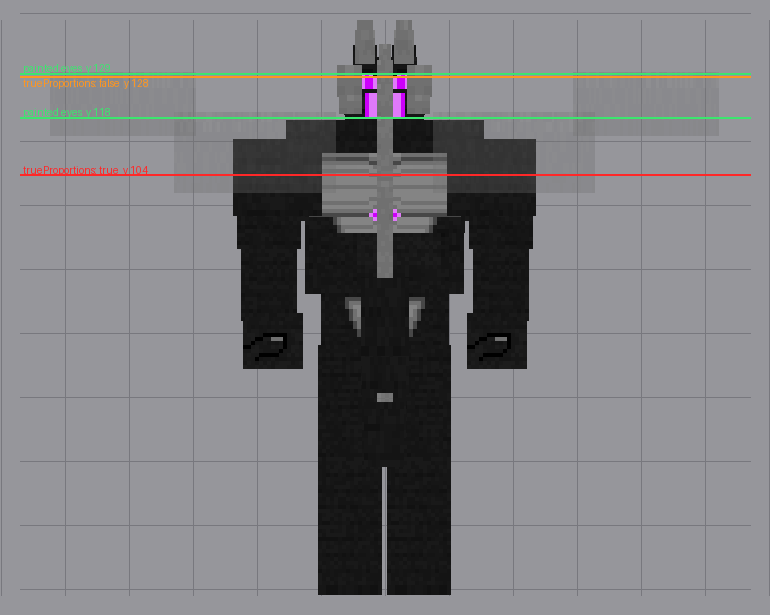
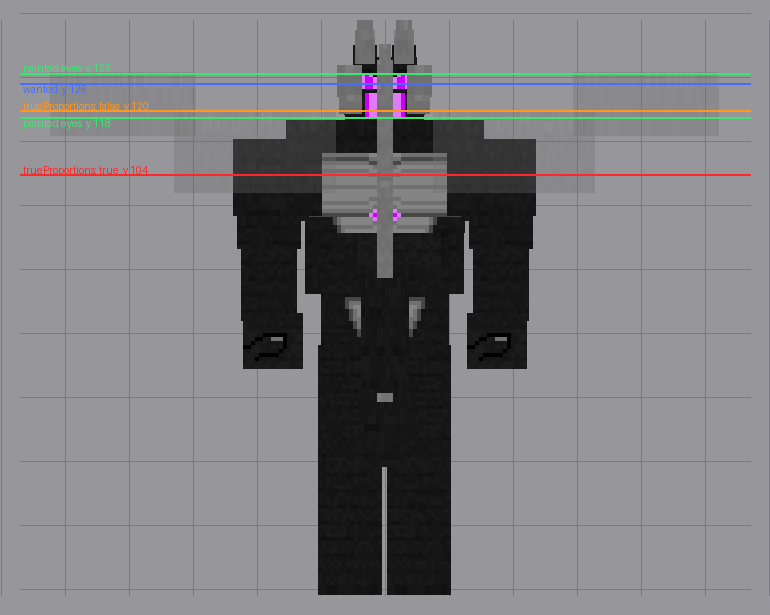
Fix the preview's eye line, and make eye height configurable
preview_eyeline measured the rig itself for SKULL_HEIGHT and took the overall
top - the horn tips at 142 - where the game builds RENDER_SCALE on the skull at
133. That put the line eight units high: it drew the plane across the top of
the eyes when it actually falls at their bottom edge, rig y 119.7. It reads the
constant out of the generated model now instead of deriving its own.

eyeHeightRatio joins the config. Vanilla is 1.62/1.8 = 0.9 baked into
Player.STANDING_DIMENSIONS, and EntityDimensions.scale() multiplies height and
eyeHeight by the same factor, so the ratio survives any scaling and no amount of
moving the head in Blockbench shifts the camera. The mixin expresses the new eye
against the dimensions' own height rather than an absolute, so it lands right
whether it fires before or after the scale is applied, and re-applying is a
no-op.

preview_eyeline takes a rig height now and prints the ratio that puts the plane
there, for both proportion settings.

Claude-Session: https://claude.ai/code/session_01SciLMdhV6QqrC51niQAHH7

Changed region(s): [[0.0312, 0.1236, 0.9662, 0.2163]]

diff --git a/tools/preview_eyeline.py b/tools/preview_eyeline.py
@@ -29,6 +29,7 @@ HERE = os.path.dirname(os.path.dirname(os.path.abspath(__file__)))
 BBMODEL = os.path.join(HERE, "art/dragon_form.bbmodel")
 TEX_DIR = os.path.join(HERE, "src/main/resources/assets/enderdragonanthro/textures/entity")
 OUT = os.path.join(HERE, "art/eyeline_preview.png")
+JAVA = os.path.join(HERE, "src/main/java/com/enderdragonanthro/client/model/DragonFormModel.java")
 
 PLAYER_HEIGHT = 1.8          # blocks
 PLAYER_EYE = 1.62            # blocks — Player.STANDING_DIMENSIONS
@@ -92,7 +93,21 @@ def eye_span(cubes):
     return best
 
 
+def skull_height():
+    """Read the constant the game actually uses, not a number of our own.
+
+    Taking the rig's overall top instead put this preview eight units out —
+    the horns reach 142 where the skull tops out at 133, and RENDER_SCALE is
+    built on the skull.
+    """
+    for line in open(JAVA):
+        if "SKULL_HEIGHT =" in line:
+            return float(line.split("=")[1].strip().rstrip("F;"))
+    raise SystemExit("could not read SKULL_HEIGHT from the generated model")
+
+
 def main():
+    want = float(sys.argv[1]) if len(sys.argv) > 1 else None
     cubes = placed(BBMODEL)
     sheet = Image.open(os.path.join(TEX_DIR, "dragon_form.png")).convert("RGBA")
 
@@ -136,14 +151,15 @@ def main():
         img.alpha_composite(face, (int(tl[0]), int(tl[1])))
 
     eyes = eye_span(cubes)
-    skull = hi
-    trim = PLAYER_HEIGHT * 16.0 / skull
+    trim = PLAYER_HEIGHT * 16.0 / skull_height()
     lines = [("painted eyes", eyes[0], (60, 230, 110, 255)),
              ("painted eyes", eyes[1], (60, 230, 110, 255))] if eyes else []
     for label, render_scale, colour in (
             ("trueProportions: false", trim, (255, 150, 30, 255)),
             ("trueProportions: true", AUTHORED, (255, 40, 40, 255))):
         lines.append((label, PLAYER_EYE * 16.0 / render_scale, colour))
+    if want:
+        lines.append(("wanted", want, (70, 110, 255, 255)))
 
     placed_labels = []
     for label, y, colour in sorted(lines, key=lambda t: -t[1]):
@@ -174,6 +190,11 @@ def main():
         y = PLAYER_EYE * 16.0 / render_scale
         off = f", {abs(y - sum(eyes) / 2):5.1f} off the eye centre" if eyes else ""
         print(f"  trueProportions {label} -> eye plane at rig y {y:6.1f}{off}")
+    if want:
+        print(f"\n  to sit at rig y {want:.1f}, eyeHeightRatio must be:")
+        for label, render_scale in (("true ", AUTHORED), ("false", trim)):
+            print(f"    trueProportions {label} -> {want * render_scale / (16.0 * PLAYER_HEIGHT):.4f}"
+                  f"   (vanilla is {PLAYER_EYE / PLAYER_HEIGHT:.4f})")
 
 
 if __name__ == "__main__":

diff --git a/src/main/java/com/enderdragonanthro/mixin/PlayerEyeHeightMixin.java b/src/main/java/com/enderdragonanthro/mixin/PlayerEyeHeightMixin.java
@@ -1,0 +1,39 @@
+package com.enderdragonanthro.mixin;
+
+import com.enderdragonanthro.config.DragonConfig;
+import com.enderdragonanthro.transform.DragonFormManager;
+import net.minecraft.world.entity.EntityDimensions;
+import net.minecraft.world.entity.Pose;
+import net.minecraft.world.entity.player.Player;
+import org.spongepowered.asm.mixin.Mixin;
+import org.spongepowered.asm.mixin.injection.At;
+import org.spongepowered.asm.mixin.injection.Inject;
+import org.spongepowered.asm.mixin.injection.callback.CallbackInfoReturnable;
+
+/**
+ * Moves the eye — the red plane in F3+B — off vanilla's fixed 0.9 of the hitbox.
+ *
+ * That 0.9 is baked into Player.STANDING_DIMENSIONS as 1.62 against 1.8, and
+ * EntityDimensions.scale() multiplies height and eyeHeight by the same factor,
+ * so the ratio survives any amount of scaling. Nothing about it knows where the
+ * model's eyes are painted, which is why moving the head in Blockbench never
+ * moved the camera.
+ *
+ * Expressed against the dimensions' own height rather than an absolute, so it
+ * lands correctly whether this fires before or after the scale is applied —
+ * and applying it twice, if the call chain overrides itself, is a no-op.
+ */
+@Mixin(Player.class)
+public abstract class PlayerEyeHeightMixin {
+    @Inject(method = "getDimensions", at = @At("RETURN"), cancellable = true, require = 0)
+    private void enderdragonanthro$eyeHeight(Pose pose,
+                                             CallbackInfoReturnable<EntityDimensions> cir) {
+        Player self = (Player) (Object) this;
+        double ratio = DragonConfig.eyeHeightRatio();
+        if (!DragonFormManager.isDragon(self) || Math.abs(ratio - 0.9) < 1.0e-4) {
+            return;                                // human, or vanilla anyway
+        }
+        EntityDimensions dims = cir.getReturnValue();
+        cir.setReturnValue(dims.withEyeHeight((float) (dims.height() * ratio)));
+    }
+}

diff --git a/src/main/java/com/enderdragonanthro/config/DragonConfig.java b/src/main/java/com/enderdragonanthro/config/DragonConfig.java
@@ -39,6 +39,7 @@ public final class DragonConfig {
     private static final class Values {
         double heightBlocks = 8.0;
         boolean trueProportions = true;
+        double eyeHeightRatio = 0.9;
     }
 
     private static Values values = new Values();
@@ -64,6 +65,21 @@ public final class DragonConfig {
     /** True: draw the model as authored. False: trim it to fill the hitbox. */
     public static boolean trueProportions() {
         return values.trueProportions;
+    }
+
+    /**
+     * Where the eye sits, as a fraction of the hitbox height. Vanilla is
+     * 1.62 / 1.8 = 0.9, and nothing about that number knows where the model's
+     * eyes are painted — see tools/preview_eyeline.py, which converts a rig
+     * height into the ratio that puts the plane there.
+     *
+     * Clamped generously rather than to the box: an eye above the hitbox is
+     * legal and is what a head that overshoots its box needs. It is also where
+     * picking through your own ceiling starts, so it is not clamped away
+     * silently either.
+     */
+    public static double eyeHeightRatio() {
+        return Math.max(0.1, Math.min(1.4, values.eyeHeightRatio));
     }
 
     public static void load() {
@@ -93,7 +109,8 @@ public final class DragonConfig {
         } catch (IOException e) {
             EnderdragonAnthro.LOGGER.warn("Could not write {}", path, e);
         }
-        EnderdragonAnthro.LOGGER.info("Dragon form: {} blocks tall, {} proportions",
-                values.heightBlocks, values.trueProportions ? "authored" : "trimmed to hitbox");
+        EnderdragonAnthro.LOGGER.info("Dragon form: {} blocks tall, {} proportions, eye at {} of height",
+                values.heightBlocks, values.trueProportions ? "authored" : "trimmed to hitbox",
+                eyeHeightRatio());
     }
 }

diff --git a/README.md b/README.md
@@ -176,7 +176,8 @@ them; it exists because three conversion bugs shipped without it. See
 ```json
 {
   "heightBlocks": 8.0,
-  "trueProportions": true
+  "trueProportions": true,
+  "eyeHeightRatio": 0.9
 }
 ```
 
@@ -206,6 +207,26 @@ height, reach, safe fall, jump. 8.0 is the canon Ender Dragon. The canon numbers
 are *not* about size stay put: 200 HP, the damage figures, the 3× stride. Vanilla caps
 the scale attribute at 16, so the ceiling is 28.8 blocks; outside that it clamps with
 a warning.
+
+**`eyeHeightRatio`** is where the eye sits as a fraction of the hitbox — the red
+plane in F3+B, and the origin for the camera, block picking, line of sight and
+projectiles. Vanilla is `1.62 / 1.8 = 0.9`, and **nothing about that number knows
+where the model's eyes are painted**: `EntityDimensions.scale()` multiplies height
+and eyeHeight by the same factor, so the ratio survives any scaling, and moving the
+head in Blockbench never moves the camera.
+
+`tools/preview_eyeline.py <rigY>` converts a rig height into the ratio that puts the
+plane there:
+
+```
+to sit at rig y 126.5, eyeHeightRatio must be:
+  trueProportions true  -> 1.0981   (vanilla is 0.9000)
+  trueProportions false -> 0.9511   (vanilla is 0.9000)
+```
+
+Above 1.0 puts the eye outside the hitbox. That is legal, and is what a head that
+overshoots its box needs — but it is also where picking through your own ceiling
+and odd drowning checks begin, so it is not clamped away for you.
 
 The first-person hand follows whichever you pick.
 

diff --git a/tools/README.md b/tools/README.md
@@ -87,7 +87,8 @@ instead of `[wing]` for two builds running. See `MIRROR_OVERRIDE` in
 ## preview_eyeline.py
 
 ```bash
-python3 tools/preview_eyeline.py     # writes art/eyeline_preview.png
+python3 tools/preview_eyeline.py           # writes art/eyeline_preview.png
+python3 tools/preview_eyeline.py 126.5     # ...and what ratio puts the eye at rig y 126.5
 ```
 
 Draws the rig front-on with the game's eye plane — the red line in F3+B — laid
@@ -98,3 +99,7 @@ connected. The eye sits at a fixed 1.62/1.8 of the **hitbox**, and the model is
 sized separately, so `rigY = 1.62 * 16 / renderScale` — where the plane lands on
 the model depends entirely on the render scale and not at all on where the eyes
 are painted. Move the head and the camera does not follow it.
+
+It reads `SKULL_HEIGHT` out of the generated model rather than measuring the rig
+itself. Measuring took the overall top — the horn tips at 142 — where the game
+builds `RENDER_SCALE` on the skull at 133, and put the line eight units wrong.
